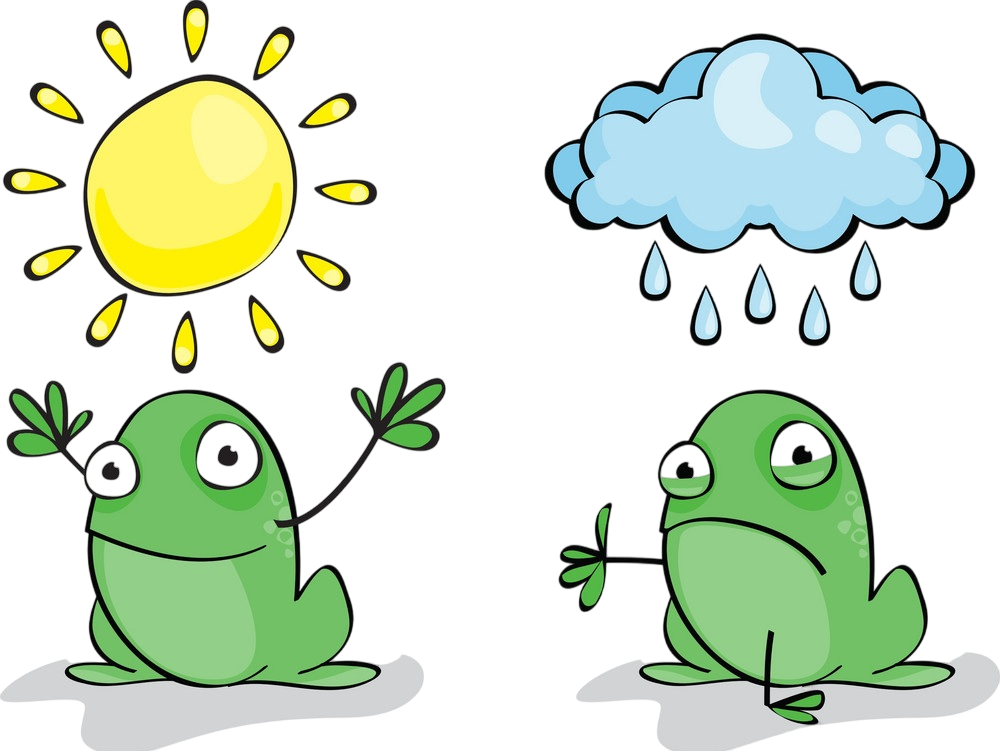
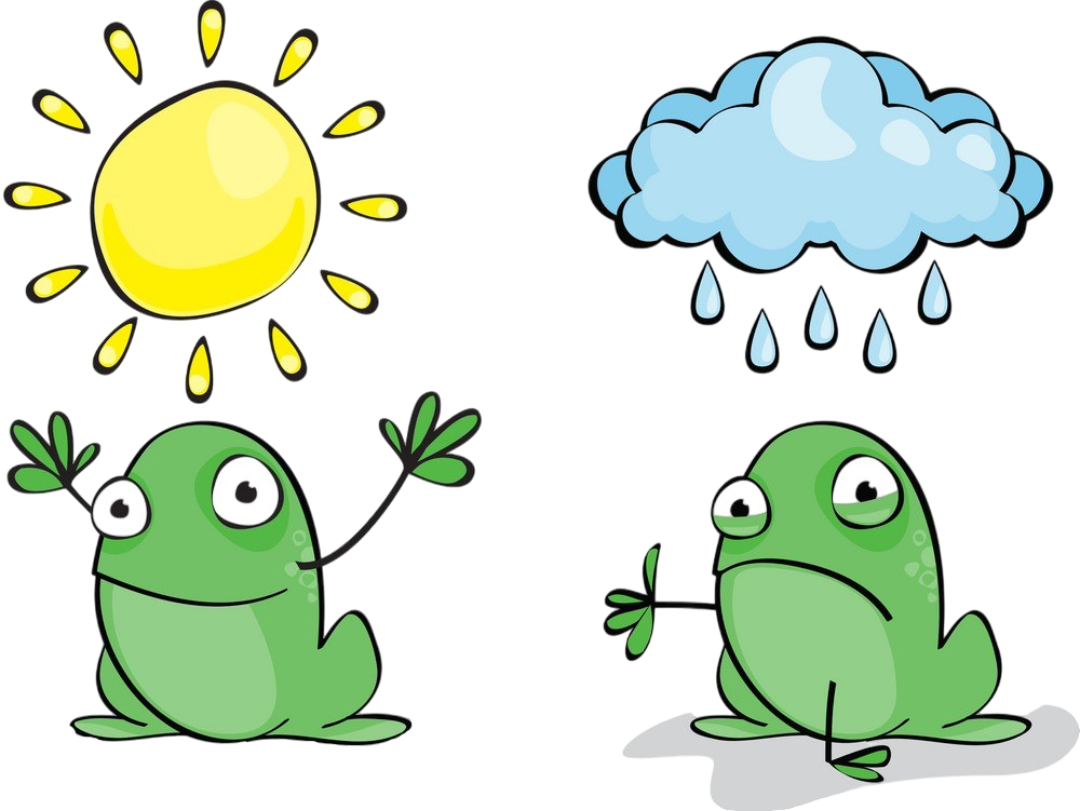
colors changed

diff --git a/src/app/pages/gimmicks/weather/weather.component.html b/src/app/pages/gimmicks/weather/weather.component.html
@@ -1,6 +1,6 @@
 <section class="flex justify-center min-h-[calc(100%-49px)] bg-blue-900">
   <div
-    class="flex flex-col w-full max-w-full sm:max-w-[700px] my-4 relative bg-gradient-to-br from-blue-50/80 via-white/90 to-indigo-50/80 backdrop-blur-sm border border-white/20 shadow-xl rounded-2xl"
+    class="flex flex-col w-full max-w-full sm:max-w-[700px] my-4 relative bg-gradient-to-br from-red-900/60 to-red-700/60 backdrop-blur-sm border border-white/20 shadow-xl rounded-2xl"
   >
     <div class="m-4 flex">
       <ion-segment
@@ -58,7 +58,7 @@
         <mat-label>{{
           "gimmicks.weather.selectCountry" | translate
         }}</mat-label>
-        <mat-select [(value)]="selectedCountry">
+        <mat-select [(value)]="selectedCountry" panelClass="country-select-panel">
           <mat-select-trigger>
             <div class="flex gap-1 items-center">
               <img
@@ -156,9 +156,9 @@
       >
         <div *ngIf="address" class="flex items-center gap-2">
           <div class="hidden xs:block">
-            <mat-icon class="text-emerald-600">place</mat-icon>
+            <mat-icon class="text-emerald-800">place</mat-icon>
           </div>
-          <span class="text-emerald-600 font-semibold">{{ address }}</span>
+          <span class="text-emerald-800 font-semibold">{{ address }}</span>
         </div>
         <div class="flex flex-col sm:flex-row gap-4 text-sm text-gray-600">
           <div class="flex items-center gap-1">
@@ -177,27 +177,27 @@
       class="flex items-center justify-between p-4 w-full flex-wrap"
     >
       <div class="flex gap-3 items-center">
-        <div class="xs:bg-blue-100 xs:p-3 xs:rounded-xl xs:shadow-md">
+        <div class="xs:bg-blue-300 xs:p-3 xs:rounded-xl xs:shadow-md">
           <img
             [src]="displayedIcon"
             class="w-[48px] h-[48px] xs:w-[72px] xs:h-[72px]"
           />
         </div>
         <div class="flex gap-2 items-center">
-          <div class="text-bold text-[48px] text-blue-700 font-light">
+          <div class="text-bold text-[48px] text-blue-600 font-light">
             {{ displayedTemp.toFixed(0) }}
           </div>
-          <div class="text-2xl text-blue-600 font-medium">°C</div>
+          <div class="text-2xl text-blue-500 font-medium">°C</div>
         </div>
         <div class="text-sm space-y-1 p-3 rounded-lg">
           <div class="whitespace-nowrap flex items-center gap-2">
             <div class="hidden xs:block">
               <mat-icon class="!text-blue-500 !text-base">water_drop</mat-icon>
             </div>
-            <span class="font-medium text-gray-700"
+            <span class="font-medium text-gray-400"
               >{{ "gimmicks.weather.precipitation" | translate }}:</span
             >
-            <span class="text-blue-600 font-semibold"
+            <span class="text-blue-500 font-semibold"
               >{{ displayedPrecipitation_probability }}%</span
             >
           </div>
@@ -205,10 +205,10 @@
             <div class="hidden xs:block">
               <img src="assets/svg/humidity_percentage.svg" class="w-4 mr-2" />
             </div>
-            <span class="font-medium text-gray-700"
+            <span class="font-medium text-gray-400"
               >{{ "gimmicks.weather.humidity" | translate }}:</span
             >
-            <span class="text-blue-600 font-semibold"
+            <span class="text-blue-500 font-semibold"
               >{{ displayedHumidity.toFixed(0) }}%</span
             >
           </div>
@@ -216,24 +216,24 @@
             <div class="hidden xs:block">
               <mat-icon class="!text-blue-500 !text-base">air</mat-icon>
             </div>
-            <span class="font-medium text-gray-700"
+            <span class="font-medium text-gray-400"
               >{{ "gimmicks.weather.wind" | translate }}:</span
             >
-            <span class="text-blue-600 font-semibold"
+            <span class="text-blue-500 font-semibold"
               >{{ displayedWind }} km/h</span
             >
           </div>
         </div>
       </div>
       <div class="flex flex-col items-end p-4 rounded-lg">
-        <div class="text-xl font-bold whitespace-nowrap text-gray-800 mb-2">
+        <div class="text-xl font-bold whitespace-nowrap text-gray-300 mb-2">
           {{ "gimmicks.weather.weather" | translate }}
         </div>
-        <div class="text-sm whitespace-nowrap text-gray-600 font-medium">
+        <div class="text-sm whitespace-nowrap text-gray-400 font-medium">
           {{ displayedTime }}
         </div>
         <div
-          class="text-base whitespace-nowrap text-blue-700 font-semibold mt-1"
+          class="text-base whitespace-nowrap text-blue-500 font-semibold mt-1"
         >
           {{ displayedWeather }}
         </div>
@@ -247,9 +247,9 @@
           id="temp-chart"
           class="cursor-pointer px-4 py-3 text-sm font-medium transition-all duration-300 flex-1 text-center"
           [ngClass]="{
-            'border-b-2 border-orange-300 text-blue-600':
+            'border-b-2 border-orange-300 text-blue-500':
               selectedChart === 'temp',
-            'text-gray-600 hover:text-blue-600 hover:bg-blue-50/50':
+            'text-gray-400 hover:text-blue-900 hover:bg-blue-300/50':
               selectedChart !== 'temp'
           }"
           (click)="selectChart('temp')"
@@ -263,9 +263,9 @@
           id="rain-chart"
           class="cursor-pointer px-4 py-3 text-sm font-medium transition-all duration-300 flex-1 text-center"
           [ngClass]="{
-            'border-b-2 border-orange-300 text-blue-600':
+            'border-b-2 border-orange-300 text-blue-500':
               selectedChart === 'rain',
-            'text-gray-600 hover:text-blue-600 hover:bg-blue-50/50':
+            'text-gray-400 hover:text-blue-900 hover:bg-blue-300/50':
               selectedChart !== 'rain'
           }"
           (click)="selectChart('rain')"
@@ -279,9 +279,9 @@
           id="wind-chart"
           class="cursor-pointer px-4 py-3 text-sm font-medium transition-all duration-300 flex-1 text-center"
           [ngClass]="{
-            'border-b-2 border-orange-300 text-blue-600':
+            'border-b-2 border-orange-300 text-blue-500':
               selectedChart === 'wind',
-            'text-gray-600 hover:text-blue-600 hover:bg-blue-50/50':
+            'text-gray-400 hover:text-blue-900 hover:bg-blue-300/50':
               selectedChart !== 'wind'
           }"
           (click)="selectChart('wind')"
@@ -315,10 +315,10 @@
         >
           <div
             *ngIf="i % 3 === 0"
-            class="flex flex-col h-full items-center justify-between py-2 sm:px-2 bg-gradient-to-b from-blue-50/50 to-white/80 rounded-lg shadow-sm border border-blue-100/50"
+            class="flex flex-col h-full items-center justify-between py-2 sm:px-2 bg-gradient-to-b from-blue-50/30 to-white/50 rounded-lg shadow-sm border border-blue-100/50"
           >
             <div
-              class="text-xs xs:text-sm text-center font-semibold text-blue-700"
+              class="text-xs xs:text-sm text-center font-semibold text-blue-800"
             >
               <div class="flex flex-col items-center justify-center">
                 <div>
@@ -365,7 +365,7 @@
             class="bg-white/20 p-[2px] xs:p-2 rounded-lg mb-1 "
             [ngClass]="{
               'bg-white/20': dailyForecast.active[i],
-              'bg-blue-100': !dailyForecast.active[i]
+              'bg-blue-200': !dailyForecast.active[i]
             }"
           >
             <img

diff --git a/src/app/pages/gimmicks/auth/auth.component.html b/src/app/pages/gimmicks/auth/auth.component.html
@@ -3,7 +3,7 @@
 >
   <div class="relative flex flex-col gap-4 w-[318px] sm:w-[600px] lg:mb-8">
     <div
-      class="flex flex-col sm:flex-row bg-white/30 border border-white text-white rounded-xl items-center sm:items-start shadow-2xl mt-2 sm:mt-4 lg:mt-8 px-4 sm:px-8 pb-4 sm:pb-8 sm:gap-8"
+      class="flex flex-col sm:flex-row bg-gradient-to-br from-red-900/60 to-red-700/60 border border-white text-white rounded-xl items-center sm:items-start shadow-2xl mt-2 sm:mt-4 lg:mt-8 px-4 sm:px-8 pb-4 sm:pb-8 sm:gap-8"
     >
       <app-jokes-book></app-jokes-book>
       <div class="sm:mt-8" id="container">
@@ -48,7 +48,7 @@
             <div>4000 0025 0000 3155</div>
             <div (click)="copyToClipboard('4000 0025 0000 3155', $event)">
               <i
-                class="fa-regular fa-clipboard ml-1 hover:text-blue-700 cursor-pointer"
+                class="fa-regular fa-clipboard ml-1 hover:text-orange-700 cursor-pointer"
               ></i>
             </div>
           </div>
@@ -59,7 +59,7 @@
             <div>4000 0000 0000 9995</div>
             <div (click)="copyToClipboard('4000 0000 0000 9995', $event)">
               <i
-                class="fa-regular fa-clipboard ml-1 hover:text-blue-700 cursor-pointer"
+                class="fa-regular fa-clipboard ml-1 hover:text-red-700 cursor-pointer"
               ></i>
             </div>
           </div>

diff --git a/src/app/pages/gimmicks/auth/auth-login/auth-login.component.html b/src/app/pages/gimmicks/auth/auth-login/auth-login.component.html
@@ -1,5 +1,5 @@
 <section
-  class="flex flex-col justify-center items-center bg-white/30 text-white shadow rounded-xl py-8 border border-white"
+  class="flex flex-col justify-center items-center bg-gradient-to-br from-red-900/60 to-red-700/60 text-white shadow rounded-xl py-8 border border-white"
 >
   <div class="sm:text-lg mb-4 px-6 text-center">{{ "gimmicks.jokes.loginToRead" | translate }}</div>
   <div
@@ -10,7 +10,7 @@
   </div>
   <div
     *ngIf="isLoginMode"
-    class="bg-gradient-to-b from-cyan-100/60 to-cyan-300/60 shadow-2xl rounded p-4 xs:p-8 relative max-w-[220px] sm:w-96 sm:max-w-96 h-48"
+    class="bg-gradient-to-b from-cyan-100/80 to-cyan-300/80 shadow-2xl rounded p-4 xs:p-8 relative max-w-[220px] sm:w-96 sm:max-w-96 h-48"
   >
     <div *ngIf="isLoading" class="flex justify-center items-center h-full">
       <ion-spinner></ion-spinner>
@@ -70,7 +70,7 @@
   </ng-container>
   <div
     *ngIf="!isLoginMode"
-    class="bg-gradient-to-b from-cyan-100/60 to-cyan-300/60 shadow-2xl rounded p-4 xs:p-8 relative max-w-[220px] sm:w-96 sm:max-w-96 h-64"
+    class="bg-gradient-to-b from-cyan-100/80 to-cyan-300/80 shadow-2xl rounded p-4 xs:p-8 relative max-w-[220px] sm:w-96 sm:max-w-96 h-64"
   >
     <div *ngIf="isLoading" class="flex justify-center items-center h-full">
       <ion-spinner></ion-spinner>

diff --git a/src/app/pages/gimmicks/auth/stripe/stripe.component.html b/src/app/pages/gimmicks/auth/stripe/stripe.component.html
@@ -1,4 +1,4 @@
-<div class="py-4 px-2 xs:p-4 lg:p-6 shadow bg-white/30 rounded-xl border border-white text-white w-[318px] sm:w-[600px] lg:w-[360px] xl:w-[420px] m-2 sm:mb-4 lg:mt-8 relativ">
+<div class="py-4 px-2 xs:p-4 lg:p-6 shadow bg-gradient-to-br from-red-900/60 to-red-700/60 rounded-xl border border-white text-white w-[318px] sm:w-[600px] lg:w-[360px] xl:w-[420px] m-2 sm:mb-4 lg:mt-8 relativ">
   <div
     *ngIf="elementsOptions.clientSecret && viewType === 'payment'"
     [formGroup]="paymentElementForm"
@@ -6,7 +6,7 @@
   >
     <div class="flex justify-center mb-4 sm:text-lg lg:text-base xl:text-lg text-center">
       {{ "gimmicks.jokes.orderBook" | translate }}&nbsp;&nbsp;<span
-        class="bg-white/30 border border-white rounded-lg text-red-600 px-2 font-semibold"
+        class="bg-white/30 border border-white rounded-lg text-red-800 px-2 font-semibold"
         >14.98 Euro</span
       >
     </div>
@@ -69,7 +69,7 @@
   </div>
   <div
     *ngIf="viewType === 'spinner'"
-    class="bg-white/60 p-4 rounded flex justify-center"
+    class="bg-gradient-to-br from-red-900/60 to-red-700/60 p-4 rounded flex justify-center"
   >
     <ion-spinner></ion-spinner>
   </div>

diff --git a/src/styles.scss b/src/styles.scss
@@ -191,3 +191,53 @@ button.alert-button.alert-button-confirm:hover {
 .full-width-dialog {
   margin: 0 !important;
 }
+
+.country-select-panel {
+  background: rgb(182, 136, 151) !important;
+
+  ngx-mat-select-search {
+    background: rgb(182, 136, 151) !important;
+
+    input {
+      background: rgb(182, 136, 151) !important;
+    }
+
+    .mat-mdc-form-field {
+      background: rgb(182, 136, 151) !important;
+    }
+  }
+
+  .mat-mdc-option {
+    background: transparent !important;
+  }
+
+  // Scrollbar styling
+  &::-webkit-scrollbar {
+    width: 16px;
+  }
+
+  &::-webkit-scrollbar-track {
+    background: rgb(182, 136, 151);
+  }
+
+  &::-webkit-scrollbar-thumb {
+    background: rgba(255, 255, 255, 0.3);
+    border-radius: 6px;
+  }
+
+  &::-webkit-scrollbar-thumb:hover {
+    background: rgba(255, 255, 255, 0.5);
+  }
+
+  // Firefox
+  scrollbar-color: rgba(255, 255, 255, 0.3) rgb(182, 136, 151);
+  scrollbar-width: auto;
+}
+
+.mat-select-search-inner {
+  background: rgb(182, 136, 151) !important;
+}
+
+.mat-select-search-panel {
+  background: rgb(182, 136, 151) !important;
+}

diff --git a/src/app/pages/gimmicks/weather/rain-chart/rain-chart.component.ts b/src/app/pages/gimmicks/weather/rain-chart/rain-chart.component.ts
@@ -81,7 +81,7 @@ export class RainChartComponent implements OnInit, OnChanges {
             display: false,
           },
           min: 0,
-          max:100,
+          max: 100,
         },
         x: {
           grid: {
@@ -93,6 +93,7 @@ export class RainChartComponent implements OnInit, OnChanges {
                 ? this.getLabelForValue(+value)
                 : '';
             },
+            color: 'lightgray',
             maxRotation: 0, // Keine Rotation
             minRotation: 0, // Keine Rotation
             autoSkip: false, // Wichtig, sonst ignoriert er manchmal Labels
@@ -105,10 +106,10 @@ export class RainChartComponent implements OnInit, OnChanges {
         datalabels: {
           align: 'end',
           anchor: 'end',
-          color: 'blue',
+          color: '#3b82f6',
           font: { weight: 'bold' },
           offset: 20,
-          formatter: (value: number) => Math.round(value)+'%',
+          formatter: (value: number) => Math.round(value) + '%',
           display: (ctx) => ctx.dataIndex % 3 === 0 && ctx.dataIndex !== 0,
         },
       },

diff --git a/src/app/pages/gimmicks/weather/temperature-chart/temperature-chart.component.ts b/src/app/pages/gimmicks/weather/temperature-chart/temperature-chart.component.ts
@@ -10,7 +10,6 @@ import {
 } from '@angular/core';
 import { BaseChartDirective } from 'ng2-charts';
 import { ChartConfiguration, ChartType, Chart } from 'chart.js';
-import { MatButtonModule } from '@angular/material/button';
 import { HourlyForecast } from '../weather.model';
 import ChartDataLabels from 'chartjs-plugin-datalabels';
 
@@ -96,6 +95,7 @@ export class TemperatureChartComponent implements OnInit, OnChanges {
                 ? this.getLabelForValue(+value)
                 : '';
             },
+            color:'lightgray',
             maxRotation: 0, // Keine Rotation
             minRotation: 0, // Keine Rotation
             autoSkip: false, // Wichtig, sonst ignoriert er manchmal Labels
@@ -108,7 +108,7 @@ export class TemperatureChartComponent implements OnInit, OnChanges {
         datalabels: {
           align: 'end',
           anchor: 'end',
-          color: '#000',
+          color: '#ffffff',
           font: (ctx) => ({
             weight:
               ctx.dataIndex === this.clickedLabelIndex ? 'bold' : 'normal',

diff --git a/src/app/pages/gimmicks/auth/auth-main/auth-main.component.html b/src/app/pages/gimmicks/auth/auth-main/auth-main.component.html
@@ -1,9 +1,9 @@
 <section id="jokes-box"
-  class="bg-gradient-to-b from-cyan-400/60 to-cyan-600/60 rounded-xl shadow flex flex-col items-center p-8 text-white border border-white"
+  class=" bg-gradient-to-br from-red-900/60 to-red-700/60 rounded-xl shadow flex flex-col items-center p-8 text-white border border-white"
 >
   
   <div class="flex w-full justify-between relative">
-    <mat-icon id="click-trigger" fontIcon="info" class="cursor-pointer text-red-500"></mat-icon>
+    <mat-icon id="click-trigger" fontIcon="info" class="cursor-pointer text-red-400"></mat-icon>
     <ion-popover trigger="click-trigger" triggerAction="click">
       <ng-template>
         <ion-content class="ion-padding"

diff --git a/src/app/pages/gimmicks/auth/stripe/stripe.component.ts b/src/app/pages/gimmicks/auth/stripe/stripe.component.ts
@@ -83,6 +83,15 @@ export class StripeComponent implements OnInit {
     clientSecret: null,
     appearance: {
       theme: 'flat',
+      variables: {
+        colorText: '#000000',
+        colorTextSecondary: '#000000',
+      },
+      rules: {
+        '.Label': {
+          color: '#ffffff',
+        },
+      },
     },
   };
 

diff --git a/src/app/pages/gimmicks/auth/auth.component.css b/src/app/pages/gimmicks/auth/auth.component.css
@@ -18,3 +18,11 @@ section:before {
   background-position: 50% 0;
   background-size: cover;
 }
+
+a{
+  @apply text-blue-500;
+}
+
+a:hover{
+  @apply text-blue-600;
+}
